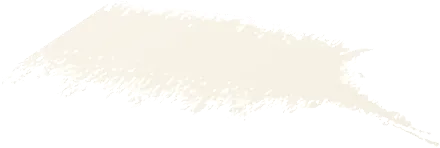
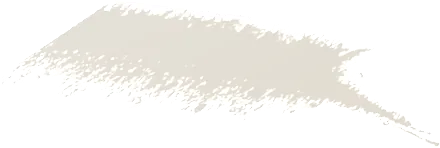
Yorum sıyırıcı derleme belirteçlerini yemişti; boya + doku düzeltmeleri
ÖNCE GERİLEME: Grup 2'de eklediğim yorum sıyırıcı, derleme
belirteçlerini de yorum sayıp sildi. /*__FIRCA_CSS__*/ satırı gidince
firca.css hiç gömülmedi, --darbe kayboldu, kabuk.js tek <i> üretmedi --
yani MENÜDE HİÇ BOYA KALMADI ve bu hâliyle yayına gitti. Belirteç artık
korunuyor (içinde __ olan yorum aynen bırakılıyor) ve yayın denetimine
"firca.css gömüldü mü" kontrolü eklendi.

Kendi testim bunu kaçırdı: "menü açıldı, satır sayısı doğru, hata yok"
dedim ama boyanın varlığını denetlemedim. Görünür bir şeyi yalnızca
görünmez ölçülerle doğrulamak yetmiyor.

Grup 3 (boya):

1) Darbeler yalnız geniş ekranda doğru orandaydı. background-size
   100% 100% görseli kutuya GERİYOR ve kutu oranı ekranla değişiyor
   (1440'ta 0.67, 390'da 0.26): ölçüldü, anizotropi 1440'ta 0.95,
   820'de 0.44, 390'da 0.40 -- yatay kıl izleri 2,5 kat sıkışıp dikey
   iğnelere dönüyordu. cover oranı koruyor. Gözle doğrulandı.

2) Satır tonları 29-94 derece arasında geziniyordu (aralık 65, std 23)
   ve üç satır zeytin yeşiline kaçıyordu. Ton artık tek sıcak pencereye
   kelepçeli (33±11). Ölçüldü: aralık 15,1 derece, std 5,7. Değerler
   firca.py -> firca.css -> kabuk.js, yani ölçüm ile çalışan kod aynı
   sayıyı kullanıyor (bu hata üç kez tekrarlanmıştı).

3) Panel içi doku ölüydü: 24x24 yama std medyanı 1,29 -- oysa
   hammaddenin kendi std'si 2,75-6,24. İki sebep:
   - Yoğunluk eğrisi 168'de platoya giriyordu, piksellerin %63-90'ı
[…]

diff --git a/kabuk.js b/kabuk.js
@@ -94,7 +94,9 @@ function satirAyari() {
     const v = parseFloat(cs.getPropertyValue(ad));
     return isNaN(v) ? yedek : v;
   };
-  return { sat: say('--satir-doygunluk', 0.40),
+  return { tonMerkez: say('--satir-ton-merkez', 33),
+           tonPay: say('--satir-ton-pay', 11),
+           sat: say('--satir-doygunluk', 0.40),
            lig: say('--satir-parlaklik', 0.90),
            adim: say('--satir-adim', 0.015) };
 }
@@ -104,7 +106,13 @@ function paintMenu(pal) {
   document.querySelectorAll('#menu .nav-item').forEach((el, i) => {
     if (el.classList.contains('ozel') || el.classList.contains('cikis')) return;
     if (!pal.length) { el.style.color = '#e9e9e4'; return; }
-    const [h, sRaw] = hsl(pal[i % pal.length]);
+    const [hRaw, sRaw] = hsl(pal[i % pal.length]);
+    /* Ton SICAK PENCEREYE kelepceleniyor. Olculdu: tonlar 29-94 derece
+       arasinda geziniyordu ve uc satir zeytin yesiline kaciyordu.
+       Degerler firca.css'ten -- olcum ile calisan kod ayni sayiyi
+       kullanmak zorunda, bu hata uc kez tekrarlandi. */
+    const h = Math.max(a.tonMerkez - a.tonPay,
+                       Math.min(a.tonMerkez + a.tonPay, hRaw));
     const sat = Math.min(sRaw, a.sat);
     const lig = a.lig + ((i * 3) % 7) * a.adim;        /* satır satır ayrışsın */
     el.style.color = 'hsl(' + h.toFixed(0) + ',' + (sat * 100).toFixed(0) + '%,' +

diff --git a/firca.css b/firca.css
@@ -5,7 +5,7 @@
   --darbe: 9;        /* kabuk.js kac <i> uretecegini buradan okuyor */
   --tasma-oran: 0.2917; /* olculdu: gorunur boya kutunun %29.2'i kadar tasiyor */
 }
-:root { --satir-doygunluk: 0.40; --satir-parlaklik: 0.20; --satir-adim: 0.015; }
+:root { --satir-doygunluk: 0.40; --satir-parlaklik: 0.20; --satir-adim: 0.015; --satir-ton-merkez: 33.0; --satir-ton-pay: 11.0; }
 :root {
   --m-dil: #605046;
   --m-dil-aktif: #281f1a;
@@ -69,7 +69,7 @@
   animation-name: sup-sag; animation-delay: 120ms;
 }
 #boya i:nth-child(5) {
-  left: -10.50%; top: 44.11%; width: 140.17%; height: 78.41%;
+  left: -10.50%; top: 44.11%; width: 140.00%; height: 78.41%;
   background-image: url(assets/firca/panel-5.webp);
 }
 #menu:popover-open #boya i:nth-child(5) {
@@ -79,7 +79,7 @@
   animation-name: sup-sol; animation-delay: 152ms;
 }
 #boya i:nth-child(6) {
-  left: -12.00%; top: 70.36%; width: 138.17%; height: 24.62%;
+  left: -11.83%; top: 70.36%; width: 138.00%; height: 24.62%;
   background-image: url(assets/firca/panel-6.webp);
 }
 #menu:popover-open #boya i:nth-child(6) {

diff --git a/kabuk.css b/kabuk.css
@@ -219,7 +219,17 @@
 }
 #boya i {
   position: absolute; display: block;
-  background-repeat: no-repeat; background-size: 100% 100%;
+  /* cover, 100% 100% DEGIL. Kutular yuzdeyle tanimli: genislik panelin
+     genisliginin, yukseklik panelin yuksekliginin yuzdesi. Panelin
+     en/boy orani ekrana gore degistigi icin (1440'ta 600x900 = 0.67,
+     390'da 150x580 = 0.26) `100% 100%` darbeyi ANIZOTROPIK geriyordu.
+     Olculdu: 1440'ta anizotropi 0.95, 820'de 0.44, 390'da 0.40 -- yatay
+     kil izleri 2.5 kat sikisip dikey ignelere donuyordu. Yani boya
+     yalniz genis ekranda boyaydi.
+     cover orani koruyor; bedeli kutunun disina tasan kismin gorunmemesi,
+     ama darbeler zaten ust uste biniyor ve kaplama olcumle denetleniyor. */
+  background-repeat: no-repeat; background-size: cover;
+  background-position: center;
   animation-duration: 300ms;
   animation-timing-function: var(--ease);
   animation-fill-mode: both;

diff --git a/firca.py b/firca.py
@@ -117,6 +117,13 @@ MUREKKEP = {
     # Artik gercek rengiyle olculuyor.
     'kapat':     (46, 36, 31),      #                         9.04:1
 }
+# Satir tonu icin SICAK PENCERE. Olculdu: tonlar 29-94 derece arasinda
+# geziniyordu (aralik 65, std 23) ve uc satir zeytin yesiline kaciyordu --
+# krem zeminde niyetli bir renk karari gibi degil render hatasi gibi
+# okunuyor. Ton yine sayfanin paletinden geliyor, ama bu pencereye
+# kelepceleniyor. Merkez 33 derece: olculen tonlarin cogunlugu orada.
+TON_MERKEZ, TON_PAY = 33.0, 11.0
+
 SAT_TAVAN = 0.40
 # 0.90'dan 0.20'ye: panel krem oldu, satirlar KOYU olmak zorunda.
 # En kotu hal en acik satir (taban + 6*adim) ve o bile 5.67:1 veriyor.
@@ -205,11 +212,27 @@ YERLESIM = [
 # Olculen yan fayda: boyanin kalinlik hissi ACIK zeminde daha iyi
 # okunuyor. Koyu panelde panel ici doku sapmasi std 3-7 idi, yani
 # "kalinliktan gelen deger" alanin onda dokuzunda gorunmuyordu.
+# Tavan 252'den 244'e indi, rampa genisledi (244 -> 214). Sebep
+# olculdu: panel ortalama parlakligi 240/255 ile tavana yapisikti ve
+# dokunun yukari dogru kipirdayacagi yer yoktu -- panel ici yama std'si
+# 1.35, yani hammaddenin (2.75-6.24) yarisindan azi. Panel hala krem.
+# Tavan GERI ACILDI. 244'e indirmek dokuya yer aciyordu ama paneli
+# koyultup kapiyi kirdi: 14 kutu kaldi, kontrastlar 2.66-3.79 (esik
+# 4.5). Dokuyu getiren sey FR degil yogunluk egrisi (EGRI_HI) ve iki
+# yonlu deger modulasyonu -- olculdu, ikisi std medyani 1.29'dan
+# 3.96'ya cikardi. FR eski haliyle kaliyor.
 FR = [(0.00, (252, 248, 240)), (0.28, (249, 244, 234)),
       (0.60, (244, 237, 224)), (0.85, (236, 227, 211)),
       (1.00, (227, 216, 198))]
 
-EGRI_LO, EGRI_HI = 14, 168   # ham yogunluk egrisi: pus sifira, cekirdek opak
+# Ham yogunluk egrisi. HI 168 iken darbe piksellerinin %63-90'i 255'e
+# KIRPILIYORDU: `kal` degeri plato yapiyor, deger modulasyonu (ac)
+# sifirlaniyor ve panel ici dokusu olulyordu (std medyan 1.35, oysa
+# hammaddenin kendi std'si 2.75-6.24). HI 220 platoyu daraltiyor.
+# Siluet ayri esikle (doldur, esik=76) kuruluyor, o yuzden HI'yi
+# yukseltmek silueti dogrudan kucultmuyor -- ama olcum kapisi kaplamayi
+# ve opakligi yine denetliyor.
+EGRI_LO, EGRI_HI = 14, 220
 
 # Kenar bandinin genisligi. Bu bantta dolgu YOK, gercek boyanin alfasi
 # var. Genisledikce kenar daha boya gibi, ama yazi kutulari ic bolgenin
@@ -507,6 +530,16 @@ def boya_darbe(ham, siluet, ox, oy, guvenli=None, nefes=None,
     px, hp, sp = im.load(), ham.load(), siluet.load()
     gp = guvenli.load() if guvenli is not None else None
     np_ = nefes.load() if nefes is not None else None
+    # Darbenin ORTALAMA kalinligi: deger modulasyonu buna gore iki yone
+    # gidiyor, yoksa her sey tek yonde aciliyor.
+    _sp = siluet.load()
+    _t, _n = 0, 0
+    for _y in range(0, h, 3):
+        for _x in range(0, w, 3):
+            if _sp[_x, _y]:
+                _t += hp[_x, _y]
+                _n += 1
+    kal_ort = (_t / float(_n) / 255.0) if _n else 0.6
     for y in range(h):
         ty = (oy + y - PAY_UST) / float(BOY)
         for x in range(w):
@@ -534,7 +567,17 @@ def boya_darbe(ham, siluet, ox, oy, guvenli=None, nefes=None,
                                 continue
             r, g, b = fr(0.30 * ((ox + x - PAY_SOL) / float(EN)) + 0.70 * ty)
             kal = hp[x, y] / 255.0
-            ac = 1.0 + (1.0 - kal) * 0.20
+            # IKI YONLU modulasyon. Onceden `1.0 + (1 - kal) * 0.20`
+            # yalnizca ACIYORDU ve tavani %20 idi: gercek yagliboyada
+            # kil sirti isigi yakalar (acik), iki sira arasindaki oluk
+            # golgede kalir (koyu). Tek yonlu modulasyon boyayi
+            # utulenmis gosteriyordu. Ortalama kalinlik darbe basina
+            # hesaplaniyor, sapma iki yone de gidiyor.
+            # ISARET: ince boya ACILIR (kagit/duvar aciga cikar),
+            # kalin boya kendi degerinde kalir. Ters yazildi ve
+            # paneli koyultup kapiyi kirdi: 14 kutu, kontrast
+            # 2.91-4.20 (esik 4.5).
+            ac = 1.0 + (kal_ort - kal) * 0.40
             gri = (r + g + b) / 3.0
             kar = (1.0 - kal) * 0.14
             px[x, y] = (min(255, int((r * (1 - kar) + gri * kar) * ac)),
@@ -609,6 +652,10 @@ def satir_renkleri(palet):
         n = int(hx[1:], 16)
         r, g, b = (n >> 16) & 255, (n >> 8) & 255, n & 255
         h, l, sat = colorsys.rgb_to_hls(r / 255.0, g / 255.0, b / 255.0)
+        # Ton sicak pencereye kelepceleniyor (bkz. TON_MERKEZ).
+        hd = h * 360.0
+        hd = max(TON_MERKEZ - TON_PAY, min(TON_MERKEZ + TON_PAY, hd))
+        h = hd / 360.0
         sat = min(sat, SAT_TAVAN)
         lig = LIG_TABAN + ((i * 3) % 7) * LIG_ADIM
         rr, gg, bb = colorsys.hls_to_rgb(h, lig, sat)
@@ -789,6 +836,9 @@ def disari(parcalar):
     return satirlar
 
 
+_taban_doku = None       # main() dolduruyor: darbenin kendi yogunlugu
+
+
 def taban_uret():
     """Yazinin altindaki opak zemin. Boya gelmezse okunurluk buna kaliyor.
 
@@ -802,9 +852,33 @@ def taban_uret():
     if not kutu:
         return None
     koru = koru.crop(kutu)
-    renk = fr(0.5)
-    im = Image.new('RGBA', koru.size, renk + (0,))
-    im.putalpha(koru)
+    # RENK DUZ DEGIL. Onceden fr(0.5) ile tek renkti (olculdu: opak
+    # parlaklik min=max=240, std 0.03) ve yazinin altinda duz bir levha
+    # duruyordu -- darbelerin dokusu ne yaparsa yapsin alttaki kat
+    # duzdu. Artik hem FR gradyani hem boyanin kendi yogunlugu var.
+    en, boy = koru.size
+    im = Image.new('RGBA', (en, boy))
+    ip = im.load()
+    dp = _taban_doku.resize((en, boy), Image.LANCZOS).load() \
+        if _taban_doku is not None else None
+    kp = koru.load()
+    for y in range(boy):
+        ty = (kutu[1] + y - PAY_UST) / float(BOY)
+        for x in range(en):
+            a = kp[x, y]
+            if not a:
+                continue
+            r, g2, b = fr(0.30 * ((kutu[0] + x - PAY_SOL) / float(EN))
+                          + 0.70 * ty)
+            if dp is not None:
+                # Doku DEGERI moduluyor, alfayi degil: okunurluk
+                # garantisi alfaya bagli ve o dokunulmadan kaliyor.
+                k = dp[x, y] / 255.0
+                ac = 0.94 + k * 0.10
+                r = min(255, int(r * ac))
+                g2 = min(255, int(g2 * ac))
+                b = min(255, int(b * ac))
+            ip[x, y] = (r, g2, b, a)
     ad = 'taban.webp'
     im.save(os.path.join(VARLIK, ad), 'WEBP', quality=86, method=6, exact=True)
     return {'dosya': 'assets/firca/' + ad,
@@ -840,7 +914,9 @@ def css_yaz(satirlar, taban=None):
     # olmak zorunda. Iki yerde elle tutulsaydi ilk degisiklikte ayrisir
     # ve olcum artik gercegi olcmez olurdu.
     p.append(':root { --satir-doygunluk: %.2f; --satir-parlaklik: %.2f;'
-             ' --satir-adim: %.3f; }' % (SAT_TAVAN, LIG_TABAN, LIG_ADIM))
+             ' --satir-adim: %.3f;'
+             ' --satir-ton-merkez: %.1f; --satir-ton-pay: %.1f; }'
+             % (SAT_TAVAN, LIG_TABAN, LIG_ADIM, TON_MERKEZ, TON_PAY))
     # Murekkepler: kabuk.css bunlari okuyor. Elle yazilsalardi olcum ile
     # gercek yine ayrisirdi -- bu hataya bir kez dusuldu.
     p.append(':root {')
@@ -902,6 +978,36 @@ def css_yaz(satirlar, taban=None):
     io.open(CSS_YOL, 'w', encoding='utf-8', newline='\n').write('\n'.join(p) + '\n')
 
 
+def _doku_raporu(panel):
+    """Panel ici yerel doku sapmasi. Tek sayiya indirilemez: panelin
+    bir yerinde gradyan, baska yerinde kil izi var. 24x24 yamalarin
+    std'lerinin MEDYANI, gradyandan az etkilendigi icin kil izini
+    gosteriyor."""
+    import statistics
+    rgb = panel.convert('RGB')
+    alfa = panel.getchannel('A')
+    stdler = []
+    duz = 0
+    for y in range(PAY_UST + 60, PAY_UST + BOY - 60, 24):
+        for x in range(PAY_SOL + 20, PAY_SOL + EN - 20, 24):
+            yama = rgb.crop((x, y, x + 24, y + 24)).convert('L')
+            al = alfa.crop((x, y, x + 24, y + 24))
+            if min(al.getdata()) < 230:      # kenar/delik yamasi degil
+                continue
+            v = list(yama.getdata())
+            m = sum(v) / len(v)
+            sd = (sum((t - m) ** 2 for t in v) / len(v)) ** 0.5
+            stdler.append(sd)
+            if sd < 0.3:
+                duz += 1
+    if not stdler:
+        print('panel ici doku  olculemedi')
+        return
+    print('panel ici doku  std medyan %.2f  ortalama %.2f  duz yama %%%.1f'
+          % (statistics.median(stdler), sum(stdler) / len(stdler),
+             100.0 * duz / len(stdler)))
+
+
 def main():
     if not os.path.isdir(HAM):
         raise SystemExit('ham fotograf klasoru yok: ' + HAM)
@@ -939,6 +1045,11 @@ def main():
     else:
         print('ic delik  yok')
 
+    # PANEL ICI DOKU. Ressamin olcumu: 24x24 yama std medyani 1.35 ve
+    # panelin %18.4'u matematiksel olarak duz. Artik her derlemede
+    # raporlaniyor ki gozle degil sayiyla konusulsun.
+    _doku_raporu(panel)
+
     kutu_alfa = panel.getchannel('A').crop(
         (PAY_SOL, PAY_UST, PAY_SOL + EN, PAY_UST + BOY))
     kapla = sum(1 for v in kutu_alfa.tobytes() if v > 20) / float(EN * BOY)
@@ -964,6 +1075,11 @@ def main():
         raise SystemExit('HATA: %d kutu (857px), %d kutu (%dpx), ic delik %%%.2f'
                          ' -- VARLIKLAR YAZILMADI'
                          % (kalan, kalan2, ikinci, ic_oran * 100))
+
+    # Taban dokusu: nefes dokusuyla ayni kaynak, ama ayri egri. Ikisi de
+    # gercek bir kuru firca fotografindan geliyor.
+    global _taban_doku
+    _taban_doku = darbeler['karakter-1']
 
     satirlar = disari(parcalar)
     print('sag tasma        %%%5.1f  (gorunur alfa >= %d)'

diff --git a/build.py b/build.py
@@ -86,6 +86,14 @@ def yorumsuz(metin, dil):
     blokta = False
     for satir in metin.split('\n'):
         kirp = satir.strip()
+        # DERLEME BELIRTECLERI yorum bicimindedir
+        # (/*__FIRCA_CSS__*/) ve bu siyirici onlari YEDI:
+        # firca.css hic gomulmedi, --darbe kayboldu, kabuk.js tek
+        # <i> uretmedi, yani menude hic boya kalmadi. Yayina da
+        # gitti. Belirtec = icinde __ olan yorum; aynen korunuyor.
+        if '__' in kirp and kirp.startswith('/*'):
+            cikti.append(satir.rstrip())
+            continue
         if blokta:
             if '*/' in kirp:
                 blokta = False
